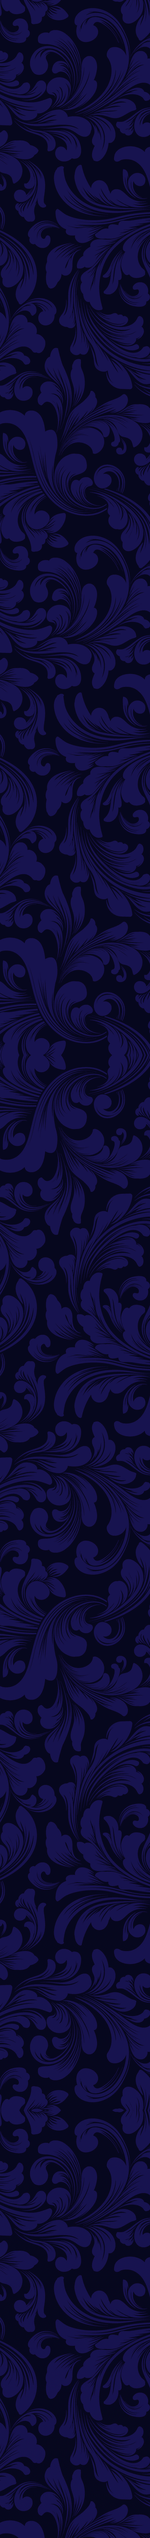
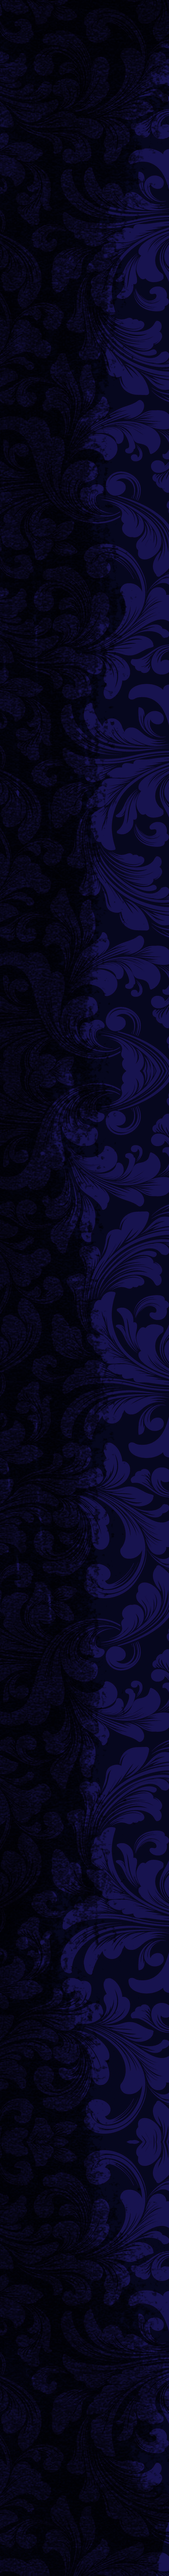
Fancy Scripts: full-bleed sidebar ribbon
The ribbon art was drawn inset ~1% from the sheet's top/left/bottom
(the handoff's geometry), leaving the parchment's black frame showing
through as a bare gap — invisible against the navy art, glaring once
the ribbon was recoloured. sidebar.png is now a full-bleed composite:
the damask stretched over the whole ribbon column with the parchment
frame's shading multiplied in (column luminance normalized so the
backdrop is neutral), so the strip runs to the page edges and darkens
into the frame like the official print, in every colour. The renderer
draws it at the sheet edge; sidebarX/sidebarW still place the labels.

Claude-Session: https://claude.ai/code/session_01CcepZWe1zaCng5i1UutSxs

diff --git a/assets/fancyscripts/sheet.js b/assets/fancyscripts/sheet.js
@@ -618,12 +618,20 @@ export function renderSheet(script, options, requestRender) {
   sheet.append(img(ART + 'parchment.jpg', {
     position: 'absolute', inset: '0', width: '100%', height: '100%',
   }));
+  /* The ribbon art is FULL-BLEED: it spans from the sheet's left edge to
+     the strip's right edge (sidebarX + sidebarW) over the full height, with
+     the parchment frame's shading baked into it (multiplied in when the
+     composite was built — see CLAUDE.md). It used to be drawn inset at
+     sidebarX/sidebarY like the handoff, which left the parchment's black
+     frame showing as a bare gap along the top, left and bottom — invisible
+     against the navy art, glaring the moment the ribbon was recoloured.
+     sidebarX/sidebarW still position the LABELS on the strip's damask. */
   const sidebarStyle = {
     position: 'absolute',
-    left: SHEET.sidebarX + '%',
-    top: SHEET.sidebarY + '%',
-    width: SHEET.sidebarW + '%',
-    height: SHEET.sidebarH + '%',
+    left: '0',
+    top: '0',
+    width: (SHEET.sidebarX + SHEET.sidebarW) + '%',
+    height: '100%',
   };
   const wantsTint = options.sidebarColor &&
     options.sidebarColor.toLowerCase() !== SIDEBAR_BASE.hex && hexHsl(options.sidebarColor);

diff --git a/CLAUDE.md b/CLAUDE.md
@@ -2081,7 +2081,15 @@ damask back cover). Client-side only: no Worker route, no D1, nothing stored.
   sidebar, skull, flourishes and dividers in `art/` are the sealed payload
   (immutable-cached in `_headers`) — the skull is a feathered opaque patch
   cut from the same parchment source, so "optimizing" images here breaks the
-  blend.
+  blend. `sidebar.png` is a **full-bleed composite**: the damask stretched
+  to the whole ribbon column (sheet edge to sidebarX+sidebarW, full height)
+  with the parchment frame's shading multiplied in (parchment column
+  luminance normalized so its inner backdrop = 1.0). The handoff's inset
+  strip left the parchment's black frame showing as a bare gap along the
+  top/left/bottom — invisible against navy, glaring once the ribbon was
+  recoloured. The renderer therefore draws it at left 0 / top 0;
+  `sidebarX`/`sidebarW` still place the labels. The pre-composite strip is
+  in git history (commit df66f84) if it ever needs rebaking.
 - **Official roster data is the wiki's own** (`assets/roles.json`, handed to
   the engine via `setOfficialRoster()`) — but the **icons are the tool's own
   bundled set** (`assets/fancyscripts/icons/{id}.webp`, the real official
